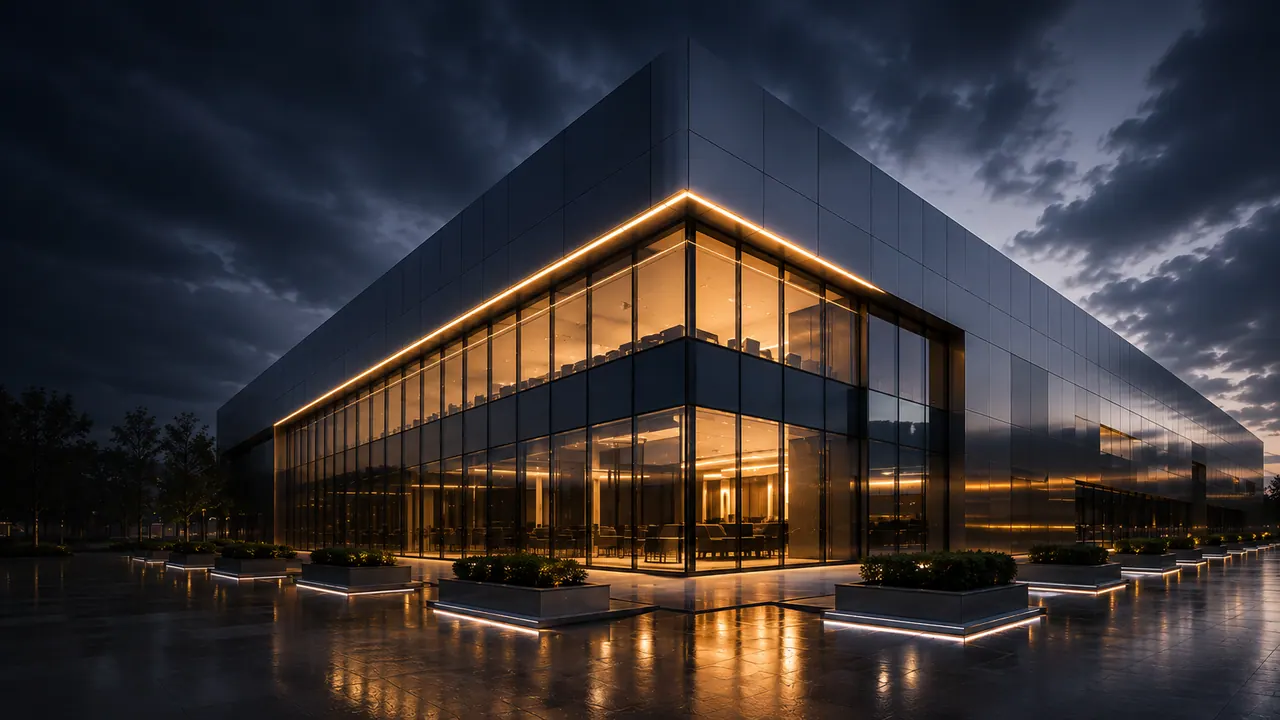
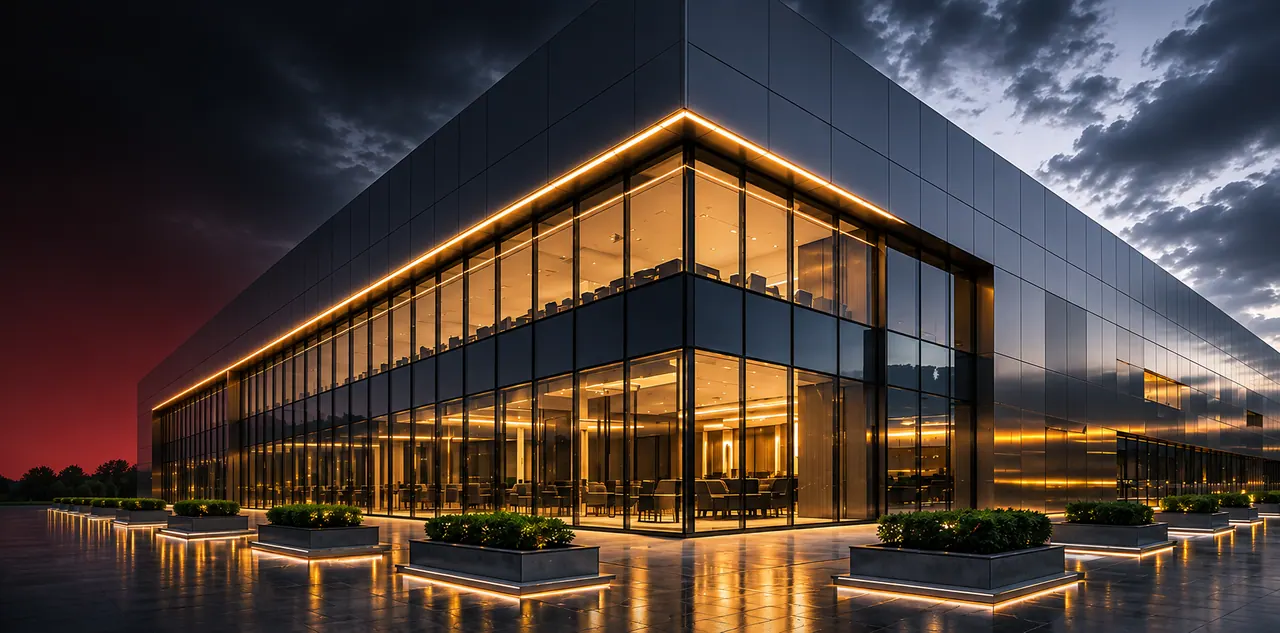
Update hero and product images
New hero facade and product photos (JPG sources), regenerated WebP sizes
and OG image; product cards use a square image frame.

diff --git a/src/styles/global.css b/src/styles/global.css
@@ -144,7 +144,7 @@ main:focus { outline: none; }
 .section-head .right .small-copy { text-align: right; }
 .products-grid { display: grid; grid-template-columns: repeat(3, 1fr); gap: 2px; background: rgba(255, 255, 255, 0.08); }
 .product-card { background: var(--card); border: 1px solid rgba(255, 255, 255, 0.08); overflow: hidden; display: flex; flex-direction: column; }
-.product-image { height: 390px; overflow: hidden; border-bottom: 1px solid var(--line); }
+.product-image { aspect-ratio: 1 / 1; overflow: hidden; border-bottom: 1px solid var(--line); background: #050505; }
 .product-image img { width: 100%; height: 100%; object-fit: cover; transition: transform 1.1s var(--ease); }
 .product-card:hover .product-image img { transform: scale(1.025); }
 .product-body { padding: 26px 28px 28px; display: flex; flex-direction: column; flex: 1; }
@@ -267,7 +267,8 @@ footer { padding: 42px 48px 28px; border-top: 1px solid var(--line); background:
   .title { font-size: 46px; }
   .why-grid { grid-template-columns: 1fr; }
   .products-grid { grid-template-columns: 1fr; }
-  .product-image { height: 420px; }
+  .product-image { aspect-ratio: auto; height: 460px; }
+  .product-image img { object-fit: contain; }
   .colour-grid { grid-template-columns: repeat(2, 1fr); }
   .news-grid { grid-template-columns: 1fr; }
   .tech-grid { grid-template-columns: repeat(2, 1fr); }
@@ -314,7 +315,7 @@ footer { padding: 42px 48px 28px; border-top: 1px solid var(--line); background:
   .stat .num { font-size: 40px; }
   .colour-grid { grid-template-columns: 1fr 1fr; gap: 12px; }
   .colour-img { height: 145px; }
-  .product-image { height: 330px; }
+  .product-image { aspect-ratio: 1 / 1; height: auto; }
   .project-track { padding: 0 0 20px; gap: 16px; }
   .project-large,
   .project-small { width: 78vw; height: 420px; }
